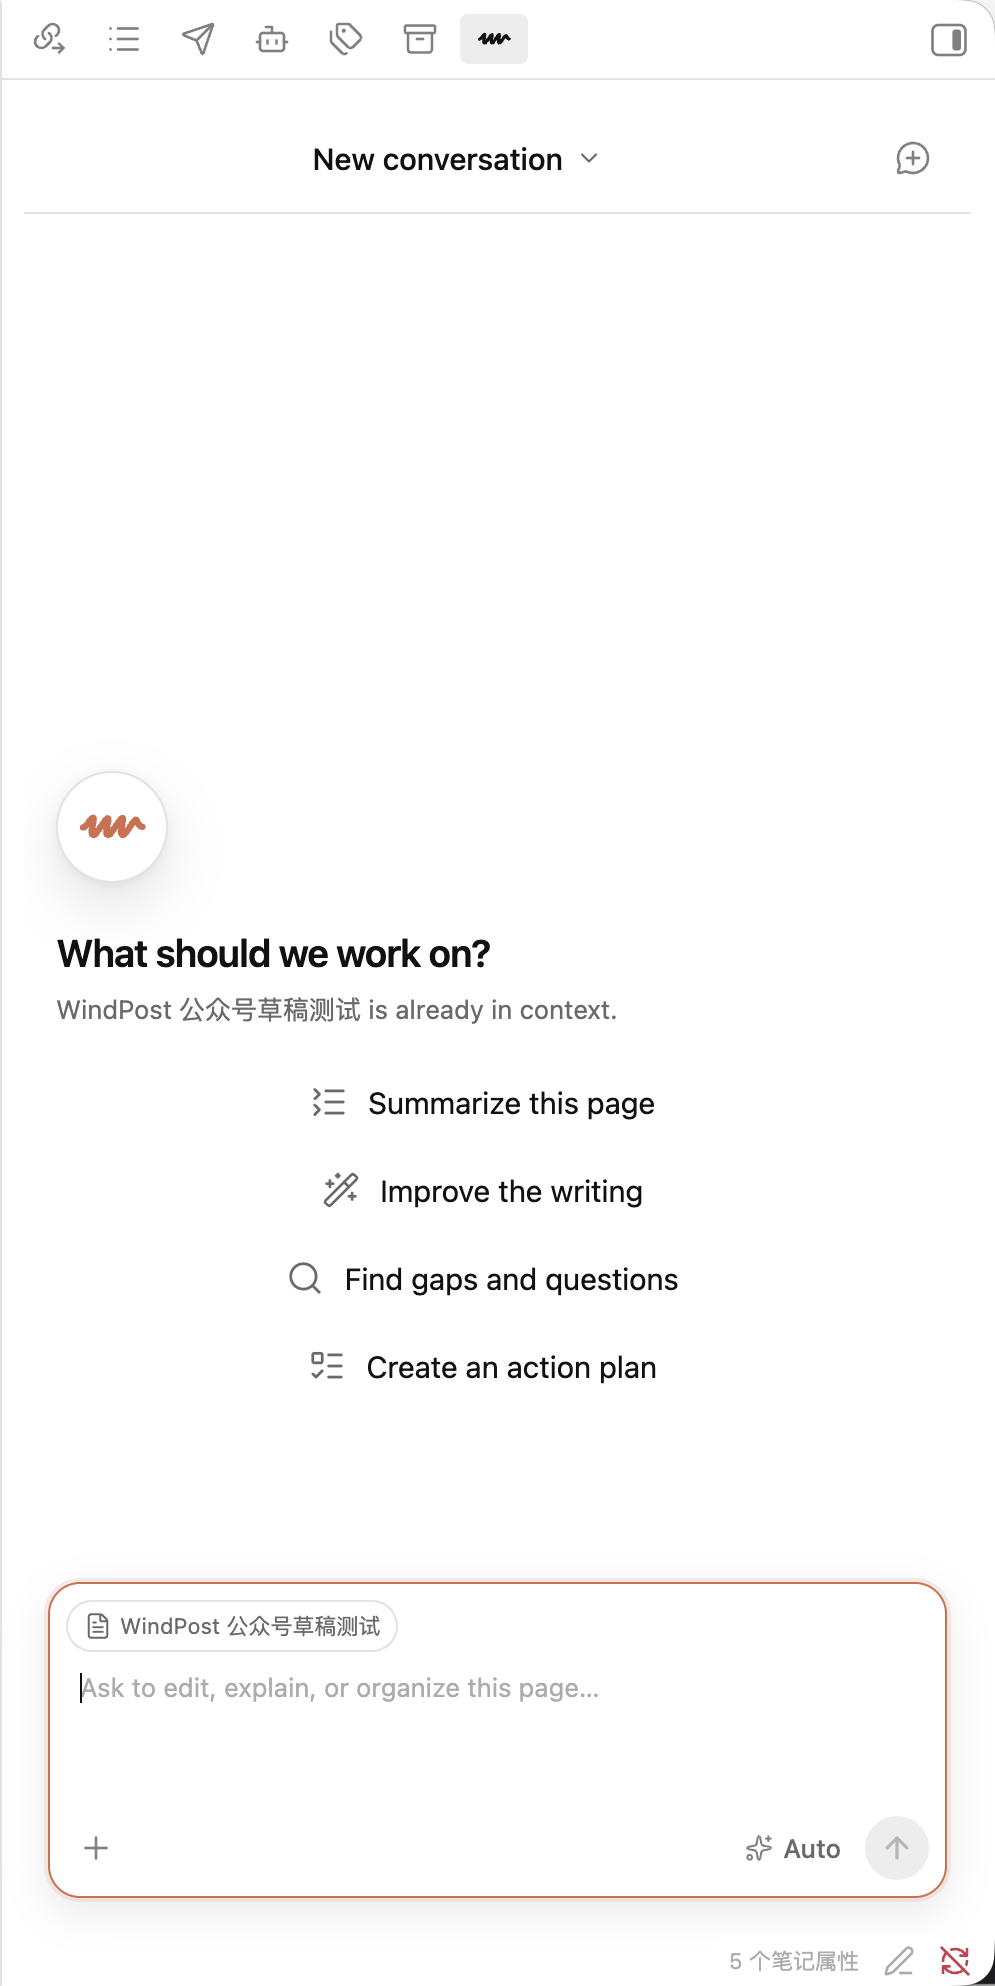
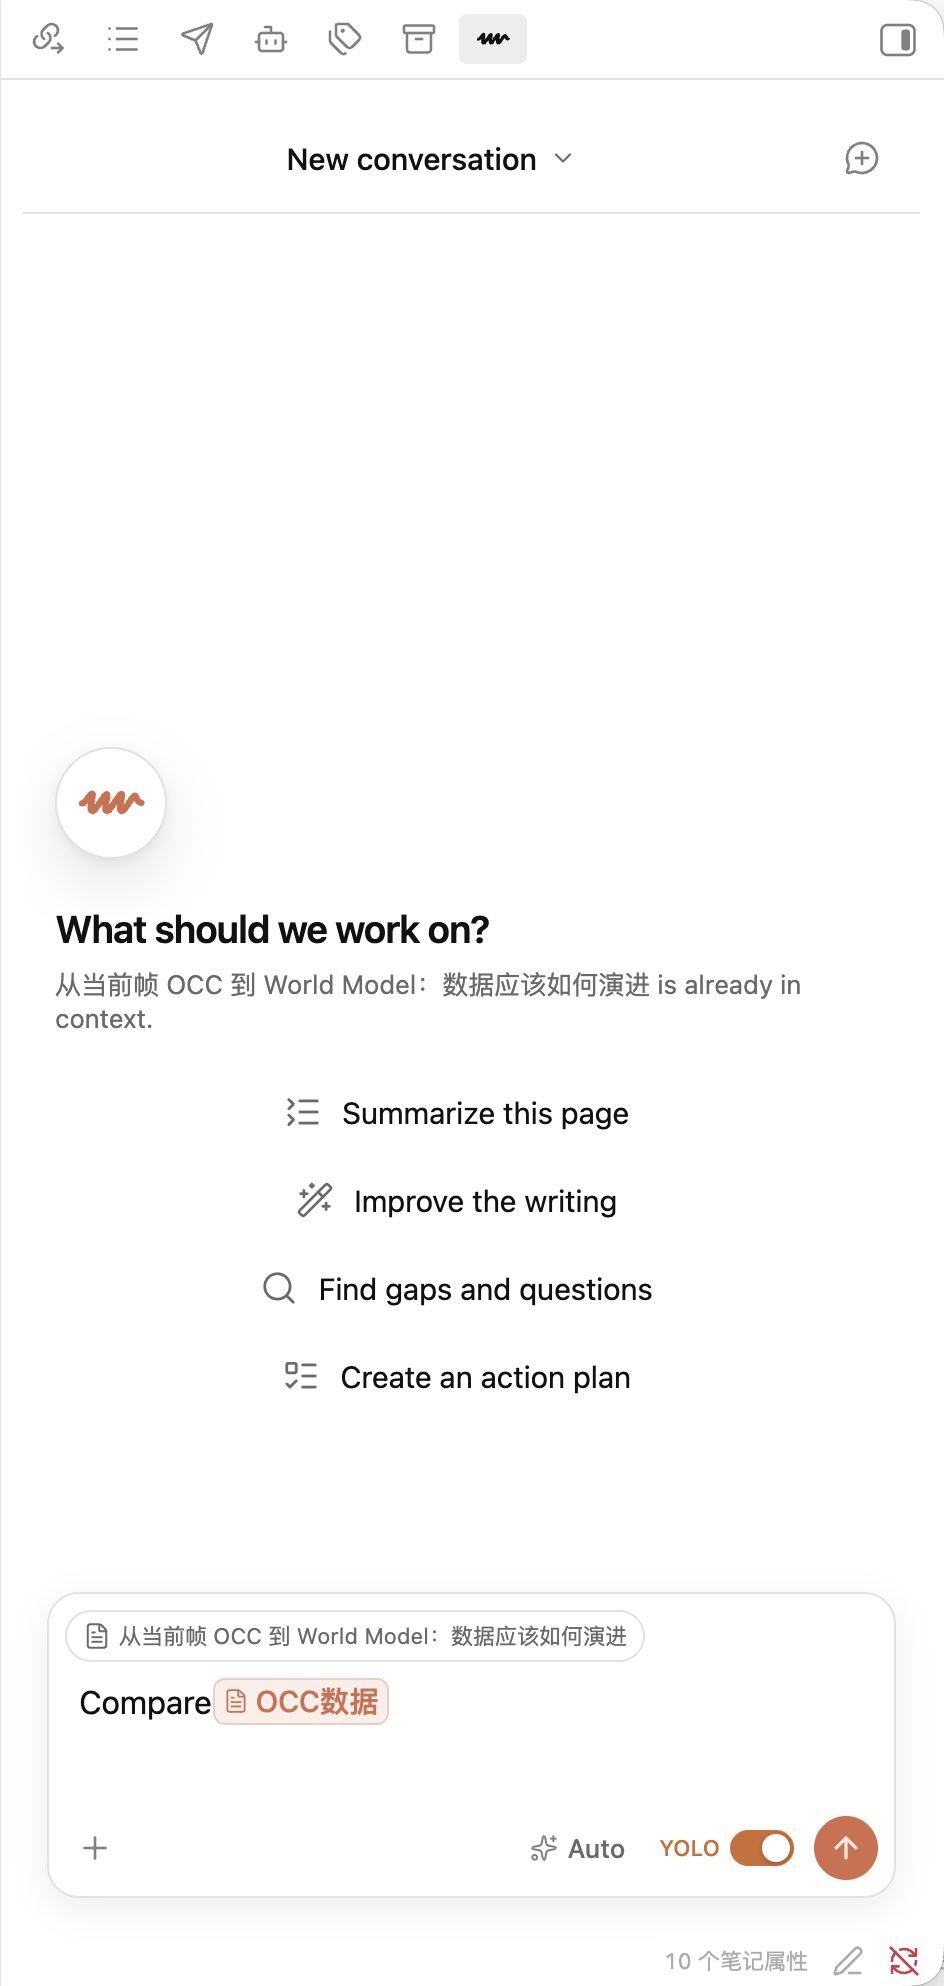
chore: prepare 0.3.0 release (#30)
Prepare Windy 0.3.0 Public Beta with synchronized release metadata, updated public documentation, and reusable version validation in CI and tag releases.

diff --git a/README.md b/README.md
@@ -106,23 +106,26 @@ Vault. It has no separate hosted service and does not add telemetry.
 
 ## Status
 
-Version 0.2.0 is an early public beta.
+Version 0.3.0 is the current Windy public beta.
 
 Implemented:
 
 - independent Obsidian plugin shell and `.windy` storage;
 - floating page-level entry and native right-side Agent view;
+- cohesive page-first interface with the Windy visual identity;
 - Markdown and Bases page detection;
 - unlimited page-conversation mappings and last-conversation restoration;
 - mapping migration after file or folder renames;
 - page-scoped conversation history and lazy first-send creation;
 - conversation-level model discovery and selection;
-- additional page context through `@` mentions;
+- rich inline page mentions that preserve exact Codex context paths;
 - native Markdown, code, reasoning, and tool-status rendering;
 - Codex app-server conversations, streaming, tool status, cancellation, and approvals;
+- optional YOLO execution mode with an explicit in-composer control;
 - one shared Codex app-server process with per-conversation thread routing;
 - background-safe runtimes that are not cancelled by page navigation;
-- interrupted-turn recovery and durable partial output.
+- interrupted-turn recovery and durable partial output;
+- reconciliation for repeated and stale tool events;
 - inline user-question forms that pause and resume the owning task.
 
 Still in progress:
